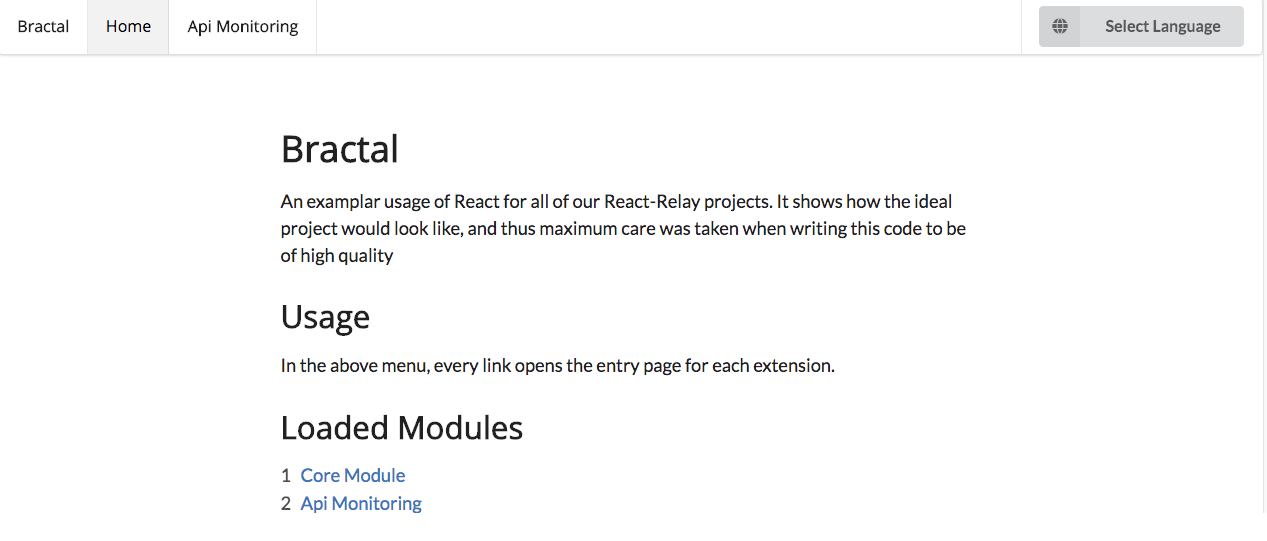
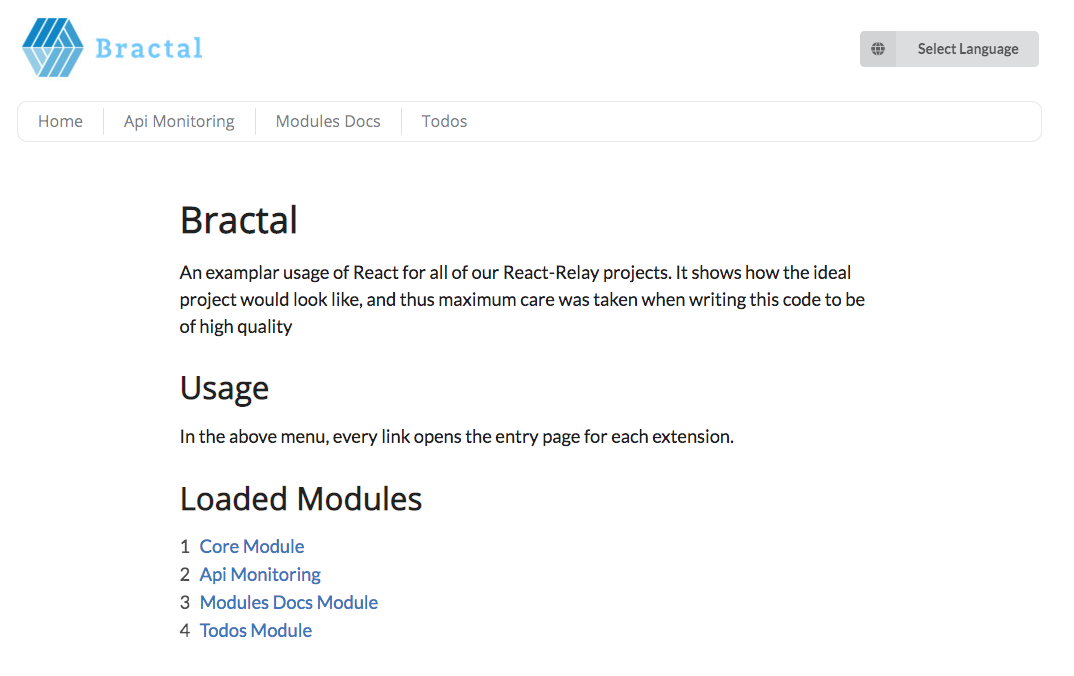
Update Readme

diff --git a/docs/assets/getting_started/sample.moduleConfig.js b/docs/assets/getting_started/sample.moduleConfig.js
@@ -1,9 +1,9 @@
 import apiMonitoring from '~/modules/apiMonitoring';
-import posts from '~/modules/posts';
+import todos from '~/modules/todos';
 
 const modules = [
   apiMonitoring,
-  posts,
+  todos,
 ];
 
 export default modules;

diff --git a/README.md b/README.md
@@ -39,7 +39,7 @@ By now you should be able to see the welcome screen (Welcome !):
 
 ### Premise
 
-We want to create a CRUD(create, update, delete) module for posts. Where the user can create a post, update a post or delete a post.
+We want to create a CRUD(create, update, delete) module for a Todos List. Where the user can list his Todos, create a Todo, update a Todo or delete a Todo.
 
 ### Backend
 
@@ -54,7 +54,7 @@ To start, let's create a GraphQL using a Prisma hosted service.
    4. Now you should be able to explore your updated schema on prisma's playground (You should see it's URL on the terminal after executing the previous command), and the following query should succeed (It would return empty results but that's fine for now) :
    ```graphql
     query {
-      posts {
+      todoes {
         id
         title
         description
@@ -90,64 +90,22 @@ Now let's add some exciting stuff. We'll create a bunch of views, with just few 
     plop generate_master_details_module
   ```
   3. You would be prompted with a number of questions, give it exactly the following answers : (You should experiment with different variations later, as appropriate) :
-  ![Plop Input](docs/assets/getting_started/plop_input.png)
+    Plop Input](docs/assets/getting_started/plop_input.png)
   4. If the everything went fine, you should see something like :
   ![Plop Input](docs/assets/getting_started/plop_result.png)
-  5. Now you should see the newly created module in the path ```{AppRoot}/src/modules/posts```
+  5. Now you should see the newly created module in the path ```{AppRoot}/src/modules/todos```
   6. Now add the newly created modules to module configurations. To do so, change the contents of ```{AppRoot}/src/modulesConfig.js```. To be the same as [(This file)](docs/assets/getting_started/sample.moduleConfig.js)
   7. Now you can run the app to see your new module 
   ```
   cd {AppRoot}
   npm start
   ```
-  8. You should now see 'Posts' as a new entry in the top menu of the App.
+  8. You should now see 'Todos' as a new entry in the top menu of the App.
+  9. Open the Todos page, and create some entries, by clicking 'Create Todo'.
+  10. To see the details of a certain Todo open a certain Todo by clicking it's details link.
   9. Voila` !!! , Hello Bractal World !
 
-### Viewing the data
-
-Now you're supposed to see an empty view, since we haven't added any posts yet. First let's add some fixed data, then we will add them dynamically.
-
-   1. Goto your Prisma's Playground and add a user and associate to him some posts
-   ```graphql
-    mutation {
-      createUser(data: {
-        name: "Your Name"
-      }) {
-        name
-        id
-      }
-    }
-   ```
-   2. Record the id you got from the previous mutation (Your user's id)
-   3. Create some posts (Replace the USER_ID in the following snippet with the id, you got in the previous step)
-   ```graphql
-    mutation {
-      createPost(data:{
-        title: "Nice Article !" 
-        description: "And this is it's description"
-        author: {
-          connect: {
-            id: "USER_ID"
-          }
-        }
-      }) {
-        title
-        description
-        author {
-          name
-          id
-        }
-      }
-    }
-   ``` 
-   4. Create as many posts as you wish, to get a nice view
-   5. Goto your App in the browswer and refresh it to see the List of posts that you've just created !
-   6. Now you can click on one of the posts to see it's details or go back to the list of posts.
-   6. That's it, you just got your first Bractal's module up and running, congrats !!
-
-### Creating some data
-
-In this step you'll create a form and a mutation to allow the user to add a post record.
+### Add/Delete Todo entries
 
 // TODO
 
